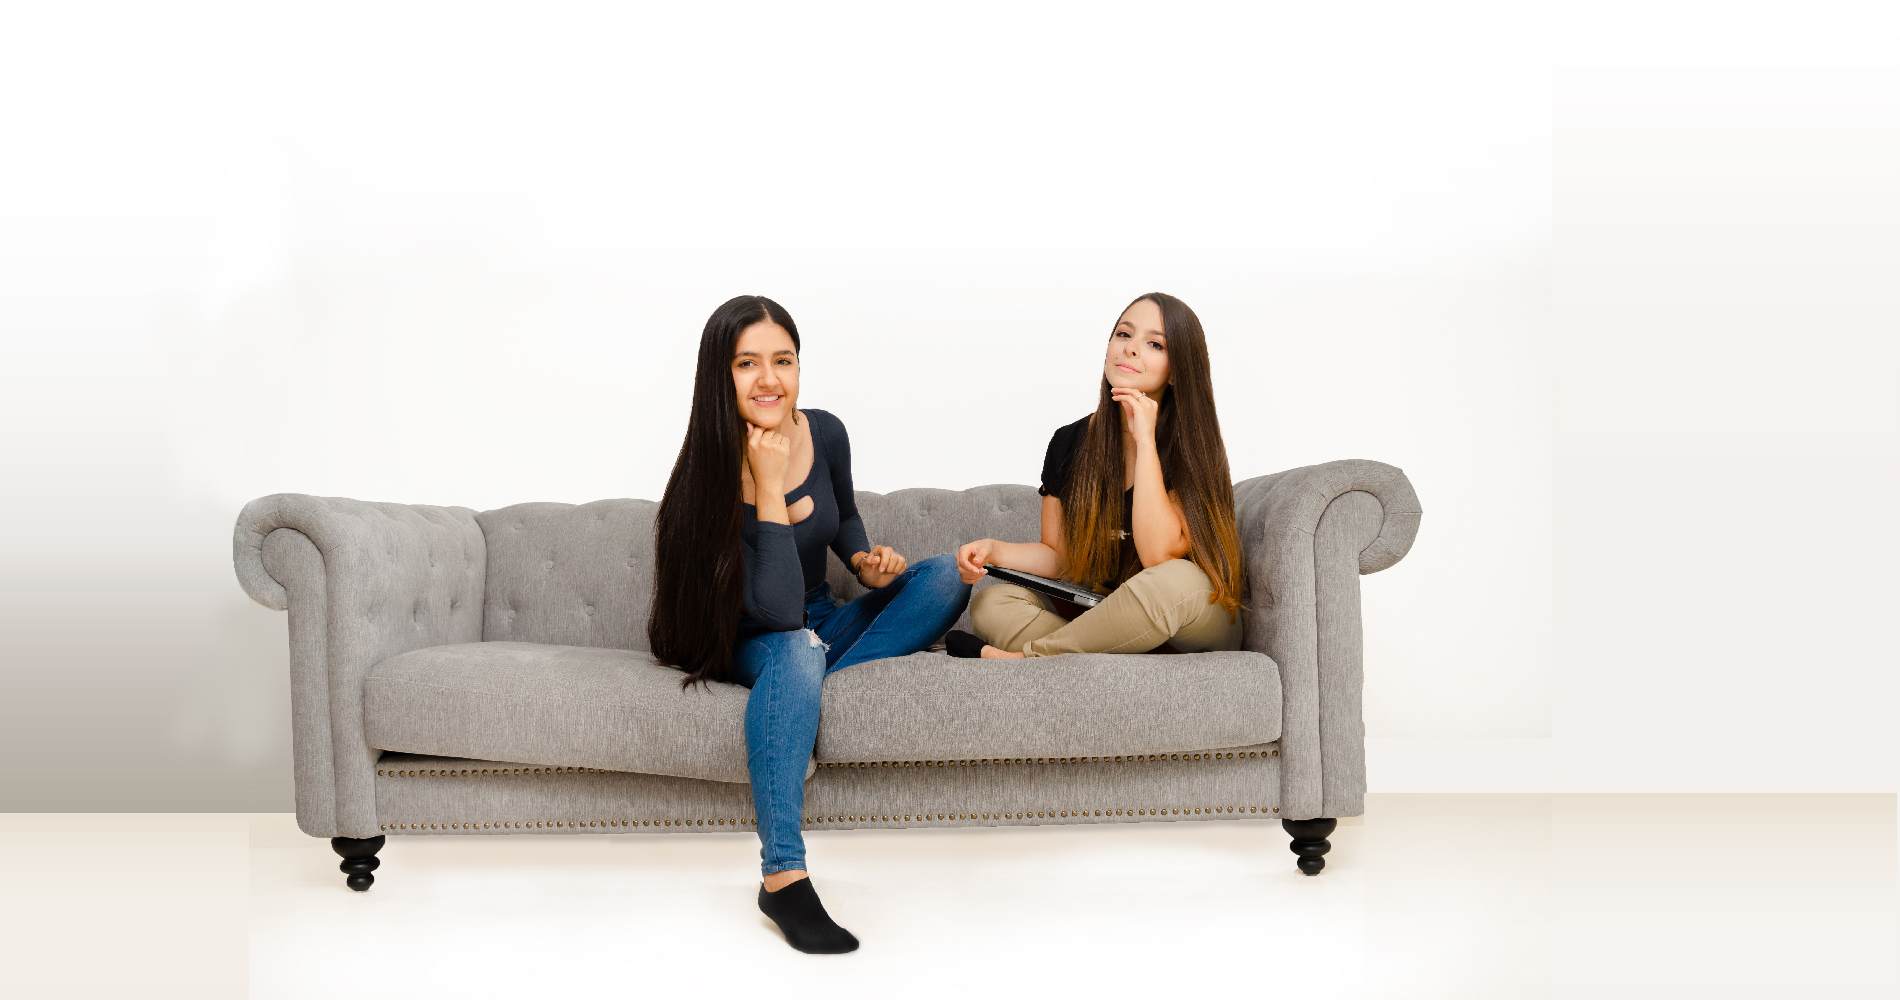
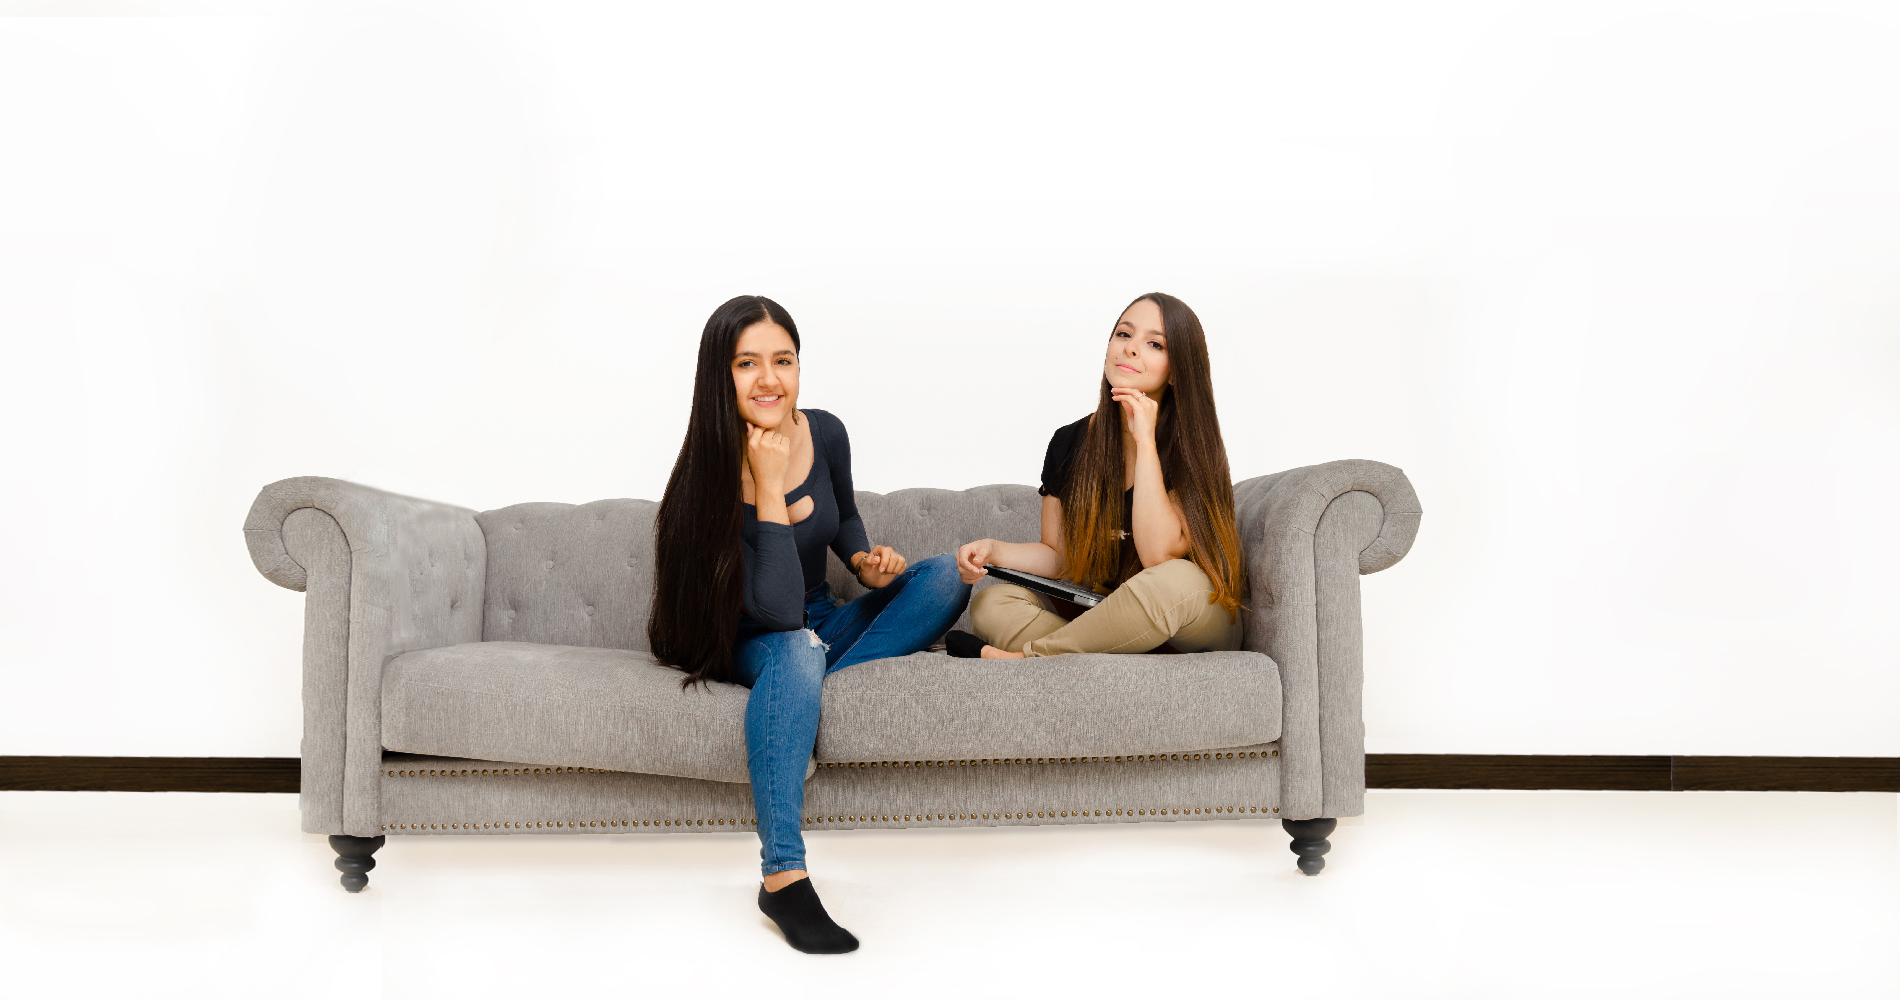
styling for hero

diff --git a/index.html b/index.html
@@ -94,48 +94,19 @@
 	
 	<!-- HOME SECTION
     ================================================== -->
-	
 		<section class="home">
-		
+
 			<a href="#scroll-link" class="arrow-down scroll">&#xf103;</a>
 	
 			<div class="slider-container">
-				<div class="tp-banner-container">
-					<div class="tp-banner" >
-						<ul>
-							<li data-transition="fade" data-slotamount="1" data-masterspeed="500"  data-saveperformance="on"  data-title="Intro Slide">
-
-								<img src="images/mentar-hero.jpg"  alt="slidebg1" data-lazyload="images/mentar-hero.jpg" data-bgposition="center top" data-bgfit="cover" data-bgrepeat="no-repeat">
-								
-									<div class="tp-caption black-heavy-2 tp-resizeme"
-										data-speed="200"
-										data-start="300"
-										data-easing="Power3.easeInOut"
-										data-elementdelay="0.1"
-										data-endelementdelay="0.1"
-										style="z-index: 500; max-width: auto; max-height: auto; white-space: nowrap;">
-										<span class="slider-text-color" >Nosotras somos</span> Angy y Kathe
-									</div>
-									<div class="tp-caption black-small randomrotate tp-resizeme"
-										data-speed="200"
-										data-start="300"
-										data-easing="Power3.easeInOut"
-										data-splitin="chars"
-										data-splitout="none"
-										data-elementdelay="0.1"
-										data-endelementdelay="0.1"
-										style="z-index: 500; max-width: auto; max-height: auto; white-space: nowrap;">
-										2 amigas incondicionales para tu marca
-									</div>
-							</li>
-						</ul>
-					</div>
+				<div class="slider-text green">
+					<span class="heart-icon"></span>
+					<span class="subtitle">Hola creativo!</span>
+					<h3 class="text-lowercase green">Nosotras somos Angy y Kathe</h3>
+					<p class="subtitle">2 amigas incondicionales para tu marca</p>
 				</div>
 			</div>
-			
-		</section>		
-	
-
+		</section>
 
 	<!-- SECTION
     ================================================== -->	

diff --git a/css/layout.css b/css/layout.css
@@ -909,6 +909,49 @@ support for no js
 	text-align:center;
 }
 .slider-text-color{
+  max-width: 300px;
+}
+.slider-container{
+  background: url('../images/mentar-hero.jpg') no-repeat center center;
+  background-size: cover;
+  width: 100%;
+  height: 100%;
+}
+.slider-text{
+  padding-top: 50px;
+  margin: 0 auto;
+  text-align: center;
+}
+.slider-text h3 {
+  margin: 0 auto;
+  max-width: 300px;
+  font-weight: 700;
+}
+.slider-text :last-child {
+  margin: 0 auto;
+  max-width: 250px;
+}
+.heart-icon {
+  background: url('../images/heart.png') center center no-repeat;
+  background-size: 50% auto;
+  display: block;
+  width: 50px;
+  height: 50px;
+  margin: 0 auto;
+}
+@media only screen and (min-width: 768px) {
+  .slider-text{
+    padding-top: 100px;
+  }
+  .slider-text h3 {
+    margin: 0 auto;
+    max-width: initial;
+  }
+  .slider-text :last-child {
+    margin: 0 auto;
+    max-width: initial;
+  }
+}
 }
 .border-text{
 	border:5px solid #212121;
